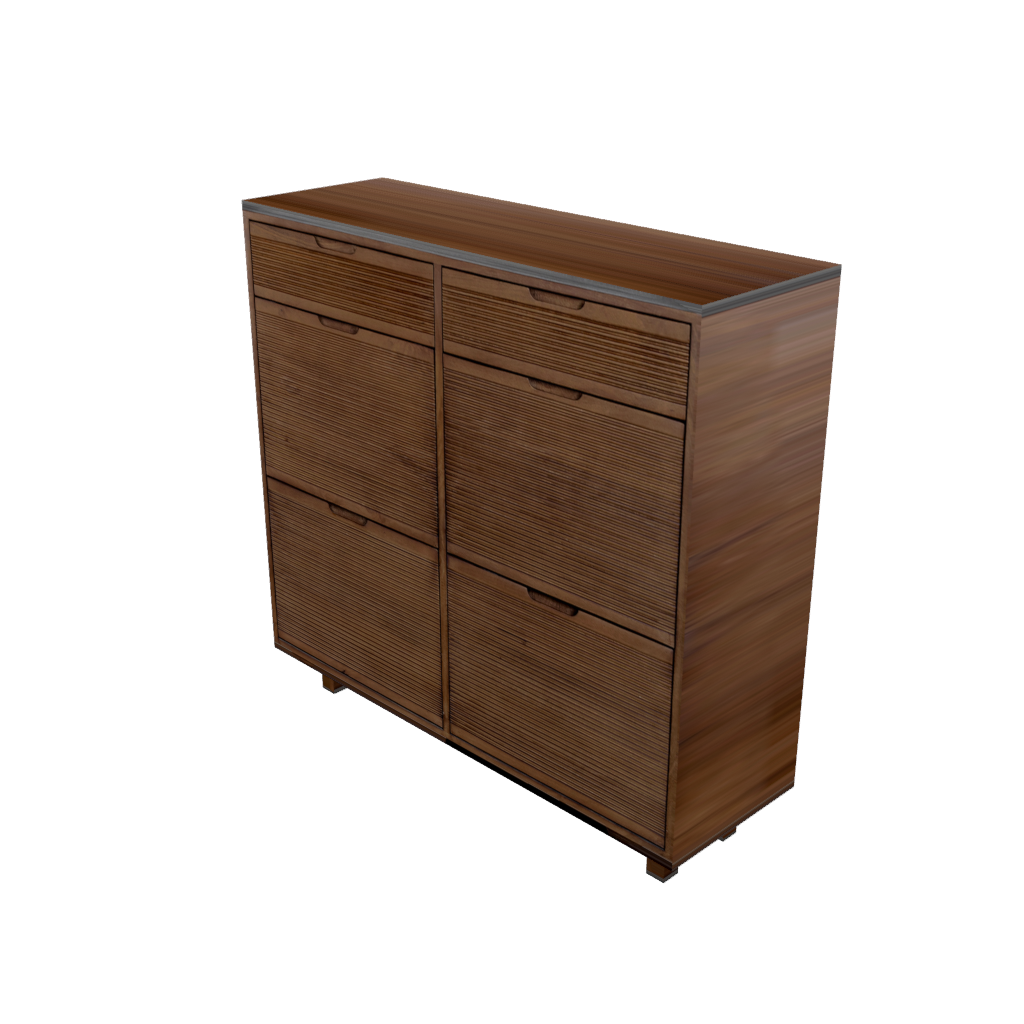
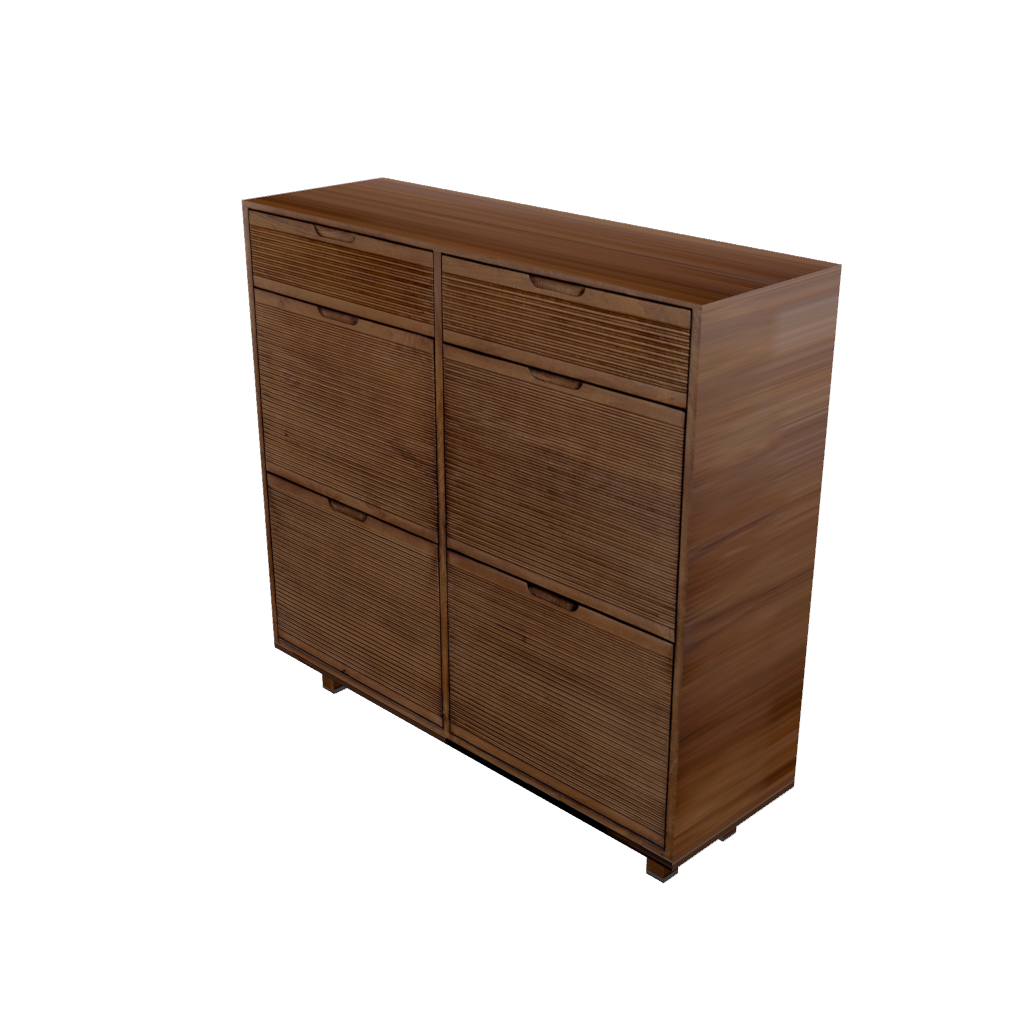
harness(E,F): box_legs con top_crop y side_band en la tapa (sin franja clara), palabras de patas/zócalo solo sobre cajas, validación temprana del delegado orgánico; p03 y p08 aptas con E

Changed region(s): [[0.2188, 0.1875, 0.8125, 0.8125]]

diff --git a/src/harness/post/parametric_spec.py b/src/harness/post/parametric_spec.py
@@ -59,16 +59,24 @@ PANEL_TABLE_PARAMS: tuple[str, ...] = (
 )
 # box_legs: a closed body on four square legs (p03 shoe cabinet) and/or on a recessed
 # plinth (p08 bedside table). Legs are used when ``leg_height_cm`` is given or no plinth is;
-# with both, the plinth stands on the legs. ``leg_inset_cm`` = body edge → outer leg face.
+# with both, the plinth stands on the legs. ``leg_inset_cm`` = distance to the outer leg
+# face from the body edge, or from the plinth footprint when there is a plinth (real
+# distance from the body edge = plinth_inset_cm + leg_inset_cm).
 BOX_LEG_HEIGHT = 10.0
 BOX_LEG_SIZE = 5.0
 BOX_LEG_INSET = 3.0
 BOX_PLINTH_HEIGHT = 5.0  # only used when the text says "zócalo" without a height
 BOX_PLINTH_INSET = 2.0
 BOX_BASE_MAX_RATIO = 0.5  # legs + plinth never take more than half the height
-# ``side_edge`` (fraction of the photo width, optional): the body's sides and top sample
-# the photo's left ``side_edge`` columns (the solid frame stile) instead of the whole
-# front, so drawers are not repeated on the sides. Unset = straight projection.
+# Texture hints of the body (always applied for box_legs):
+# - ``side_edge`` (fraction of the photo width, default BOX_SIDE_EDGE): its sides and top
+#   sample the photo's left ``side_edge`` columns (the solid frame stile) instead of the
+#   whole front, so drawers are not repeated on the sides and the top shows no rim;
+# - ``top_crop`` (fraction of the photo height, default BOX_TOP_CROP): its vertical faces
+#   stop that many rows below the photo's top edge, so the rim of the top seen from above
+#   is not mapped onto the upper edge of the front / sides.
+BOX_SIDE_EDGE = 0.03
+BOX_TOP_CROP = 0.03
 BOX_LEGS_PARAMS: tuple[str, ...] = (
     "leg_height_cm",
     "leg_size_cm",
@@ -76,6 +84,7 @@ BOX_LEGS_PARAMS: tuple[str, ...] = (
     "plinth_height_cm",
     "plinth_inset_cm",
     "side_edge",
+    "top_crop",
 )
 # Checked AFTER ``KEYWORDS`` (a "mesa con patas" stays a table): base words → box_legs.
 BOX_LEGS_WORDS: tuple[str, ...] = ("pata",)
@@ -216,22 +225,24 @@ def base_params_from_text(text: str) -> dict[str, Any] | None:
 
 
 def classify_with_params(piece: Piece) -> tuple[Kind, dict[str, Any]]:
-    """Heuristic ``(kind, params)``: description keywords first, then name, then the base
-    words ("patas" / "zócalo" → ``box_legs``), then proportions."""
+    """Heuristic ``(kind, params)``: description keywords first, then name, then
+    proportions (slab / shelf); a remaining ``box`` becomes ``box_legs`` when the text has
+    a base word ("patas" / "zócalo")."""
     texts = (piece.description or "", piece.name or "")
     for text in texts:
         kind = classify_text(text)
         if kind is not None:
             return kind, {}  # type: ignore[return-value]
-    for text in texts:
-        params = base_params_from_text(text)
-        if params is not None:
-            return "box_legs", params
     w, h, d = piece.width_cm, piece.height_cm, piece.depth_cm
     if h <= SLAB_MAX_HEIGHT_RATIO * max(w, d):
         return "slab", {}
     if h >= SHELF_MIN_HEIGHT_RATIO * w and d <= SHELF_MAX_DEPTH:
         return "shelf", {}
+    # The base words only refine a plain box ("perchero con patas" stays a shelf).
+    for text in texts:
+        params = base_params_from_text(text)
+        if params is not None:
+            return "box_legs", params
     return "box", {}
 
 
@@ -372,10 +383,13 @@ def box_legs_params(params: dict[str, Any] | None = None) -> dict[str, Any]:
         "leg_inset_cm": float(params.get("leg_inset_cm", BOX_LEG_INSET)),
         "plinth_height_cm": float(plinth) if plinth is not None else None,
         "plinth_inset_cm": float(params.get("plinth_inset_cm", BOX_PLINTH_INSET)),
-        "side_edge": float(params["side_edge"]) if "side_edge" in params else None,
+        "side_edge": float(params.get("side_edge", BOX_SIDE_EDGE)),
+        "top_crop": float(params.get("top_crop", BOX_TOP_CROP)),
     }
-    if out["side_edge"] is not None and not 0.0 < out["side_edge"] <= 1.0:
+    if not 0.0 < out["side_edge"] <= 1.0:
         raise ValueError(f"box_legs: side_edge debe estar en (0, 1] ({out['side_edge']})")
+    if not 0.0 <= out["top_crop"] < 0.5:
+        raise ValueError(f"box_legs: top_crop debe estar en [0, 0.5) ({out['top_crop']})")
     for key, value in out.items():
         if value is not None and value < 0:
             raise ValueError(f"box_legs: {key} no puede ser negativo ({value})")
@@ -472,10 +486,11 @@ def bounding_box(boxes: list[Box]) -> tuple[tuple[float, ...], tuple[float, ...]
     return mins, maxs
 
 
-def _straight_v(box: Box, h: float) -> tuple[float, float]:
-    """Photo rows of ``box`` under the straight projection (v = z / height)."""
+def _body_v(box: Box, h: float, top_crop: float) -> tuple[float, float]:
+    """Photo rows of ``box``: the straight projection (v = z / height) at its bottom, the
+    photo's top edge minus ``top_crop`` at its top."""
     z0 = box.pos_cm[2] - box.size_cm[2] / 2
-    return (z0 / h, (z0 + box.size_cm[2]) / h)
+    return (z0 / h, 1.0 - top_crop)
 
 
 def make_spec(
@@ -487,8 +502,9 @@ def make_spec(
 ) -> Spec:
     """``photo_regions`` (``{"top_row": f, "side_band": [u0, u1]}``, from the cleaned photo)
     is only used by ``panel_table``: per-box ``uv_v`` and ``extra["side_band"]``.
-    ``box_legs`` with ``side_edge`` hints its body (same rows as the straight projection)
-    and sets ``extra["side_band"] = [0, side_edge]``."""
+    ``box_legs`` hints its body (rows from the straight projection at its bottom up to
+    ``1 - top_crop``) and sets ``extra["side_band"] = [0, side_edge]``, which its sides and
+    top sample."""
     extra: dict[str, Any] = {"piece_id": piece.id}
     if params:
         extra["params"] = dict(params)
@@ -498,14 +514,15 @@ def make_spec(
         if photo_regions.get("side_band") is not None:
             extra["side_band"] = [float(v) for v in photo_regions["side_band"]]
     if kind == "box_legs":
-        edge = box_legs_params(params)["side_edge"]
-        if edge is not None:
-            h = float(piece.height_cm)
-            boxes = [
-                Box(b.name, b.size_cm, b.pos_cm, _straight_v(b, h)) if b.name == "body" else b
-                for b in boxes
-            ]
-            extra["side_band"] = [0.0, edge]
+        p = box_legs_params(params)
+        h = float(piece.height_cm)
+        boxes = [
+            Box(b.name, b.size_cm, b.pos_cm, _body_v(b, h, p["top_crop"]))
+            if b.name == "body"
+            else b
+            for b in boxes
+        ]
+        extra["side_band"] = [0.0, p["side_edge"]]
     return Spec(
         kind=kind,
         boxes=boxes,

diff --git a/tests/test_parametric.py b/tests/test_parametric.py
@@ -17,6 +17,8 @@ from harness.core.blender import BlenderNotAvailable, BlenderRun
 from harness.core.models import Piece
 from harness.post import bpy_parametric
 from harness.post.parametric_spec import (
+    BOX_SIDE_EDGE,
+    BOX_TOP_CROP,
     KINDS,
     Box,
     Spec,
@@ -821,14 +823,48 @@ def test_repo_overrides_p03_legs_p08_plinth() -> None:
     assert overrides["p08"]["plinth_height_cm"] == 5
 
 
-def test_box_legs_side_edge_hints_body(tmp_path: Path) -> None:
+def test_box_legs_texture_hints(tmp_path: Path) -> None:
     piece = make_piece(tmp_path, 52, 50, 36)
-    spec = make_spec(piece, "box_legs", params={"plinth_height_cm": 5, "side_edge": 0.05})
+    spec = make_spec(
+        piece, "box_legs", params={"plinth_height_cm": 5, "side_edge": 0.05, "top_crop": 0.06}
+    )
     boxes = {b.name: b for b in spec.boxes}
     assert spec.extra["side_band"] == [0.0, 0.05]
-    assert boxes["body"].uv_v == pytest.approx((0.1, 1.0))  # = the straight projection
+    assert boxes["body"].uv_v == pytest.approx((0.1, 0.94))  # rim rows skipped
     assert boxes["plinth"].uv_v is None
-    plain = make_spec(piece, "box_legs", params={"plinth_height_cm": 5})
-    assert "side_band" not in plain.extra and all(b.uv_v is None for b in plain.boxes)
-    with pytest.raises(ValueError, match="side_edge"):
-        build_spec(piece, "box_legs", {"side_edge": 0})
+    defaults = make_spec(piece, "box_legs", params={"plinth_height_cm": 5})
+    assert defaults.extra["side_band"] == [0.0, BOX_SIDE_EDGE]
+    body = next(b for b in defaults.boxes if b.name == "body")
+    assert body.uv_v == pytest.approx((0.1, 1.0 - BOX_TOP_CROP))
+    assert bounding_box(defaults.boxes) == bounding_box(
+        build_spec(piece, "box_legs", {"plinth_height_cm": 5})
+    )
+    for bad in ({"side_edge": 0}, {"top_crop": 0.5}):
+        with pytest.raises(ValueError, match="box_legs"):
+            build_spec(piece, "box_legs", bad)
+
+
+def test_box_legs_top_samples_side_band(tmp_path: Path) -> None:
+    piece = make_piece(tmp_path, 52, 50, 36)
+    spec = make_spec(piece, "box_legs", params={"plinth_height_cm": 5, "side_edge": 0.05})
+    raw = spec.to_dict()
+    _, _, uvs = bpy_parametric.build_geometry(raw["boxes"], tuple(raw["extra"]["side_band"]))
+    body_idx = next(i for i, b in enumerate(raw["boxes"]) if b["name"] == "body")
+    faces = dict(
+        zip(
+            [n for n, _ in bpy_parametric.BOX_FACES],
+            uvs[6 * body_idx : 6 * body_idx + 6],
+            strict=True,
+        )
+    )
+    for name in ("top", "left", "right"):
+        assert all(0.0 <= u <= 0.05 + 1e-9 for u, _ in faces[name]), name
+    assert max(v for _, v in faces["front"]) == pytest.approx(1.0 - BOX_TOP_CROP)
+
+
+def test_base_words_do_not_override_proportions(tmp_path: Path) -> None:
+    # p25: coat stand 35 x 176 x 40 "con patas finas" stays a shelf by proportions
+    p25 = make_piece(tmp_path, 35, 176, 40, "Perchero de pie de aluminio con patas finas.")
+    assert classify_with_params(p25) == ("shelf", {})
+    slab = make_piece(tmp_path, 200, 3, 90, "Tablero sobre patas")
+    assert classify(slab) == "slab"

diff --git a/tests/test_router_rules.py b/tests/test_router_rules.py
@@ -139,6 +139,7 @@ def test_auto_without_key_uses_rules(tmp_path: Path) -> None:
     assert meta["router"]["source"] == "rules"
     assert meta["router"]["rule"] == {"route": "E", "reason": "rectilínea", "thin": False}
     assert meta["router"]["cost_usd"] == 0.0 and meta["router_cost_usd_share"] == 0.0
+    assert variant.decide(make_piece(tmp_path, True))[1]["classifier"] == "rules"
     assert storage.read_meta(storage.candidate_dir(tmp_path / "F", 1))["routed_to"] == "E"
     assert result.notes.startswith("Reglas: rectilínea → ruta E")
 
@@ -181,9 +182,11 @@ def test_organic_variant_is_configurable(tmp_path: Path) -> None:
     variant, _ = router(organic_variant="TRELLIS", others={"TRELLIS": trellis})
     result = variant.run(make_piece(tmp_path, False), tmp_path / "F")
     assert trellis.calls == 1 and result.candidates[0].meta["routed_to"] == "TRELLIS"
-    missing, _ = router(organic_variant="TRELLIS")
     with pytest.raises(ValueError, match="TRELLIS"):
-        missing.run(make_piece(tmp_path, False), tmp_path / "F2")
+        router(organic_variant="TRELLIS")  # rejected early: no delegate in others
+    fixed, stubs = router(organic_variant="B")
+    assert fixed.run(make_piece(tmp_path, False), tmp_path / "F2").candidates
+    assert stubs["B"].calls == 1
 
 
 def test_unknown_classifier_rejected() -> None:

diff --git a/src/harness/variants/f_router.py b/src/harness/variants/f_router.py
@@ -110,6 +110,10 @@ class RouterVariant:
         self._vlm = vlm
         self._delegates: dict[str, Variant | None] = {"E": e, "C": c, "B": b, **(others or {})}
         self._settings = settings
+        if organic_variant is not None and organic_variant not in ("C", "B", *(others or {})):
+            raise ValueError(
+                f"Variante F: organic_variant {organic_variant!r} necesita su variante en others"
+            )
         self.classifier = classifier
         self.organic_variant = organic_variant
 
@@ -207,6 +211,7 @@ class RouterVariant:
                     "rule": rules,
                     "thin": decision.thin,
                     "cost_usd": 0.0,
+                    "classifier": mode,
                 }
                 return decision.route, info
             info = {**self.classify(piece), "rule": rules, "thin": decision.thin}
@@ -218,7 +223,6 @@ class RouterVariant:
     def run(self, piece: Piece, workdir: Path, candidates: int = 2) -> VariantResult:
         workdir = Path(workdir)
         route, router = self.decide(piece)
-        router.setdefault("classifier", "rules")
         fallback: str | None = None
 
         try:
